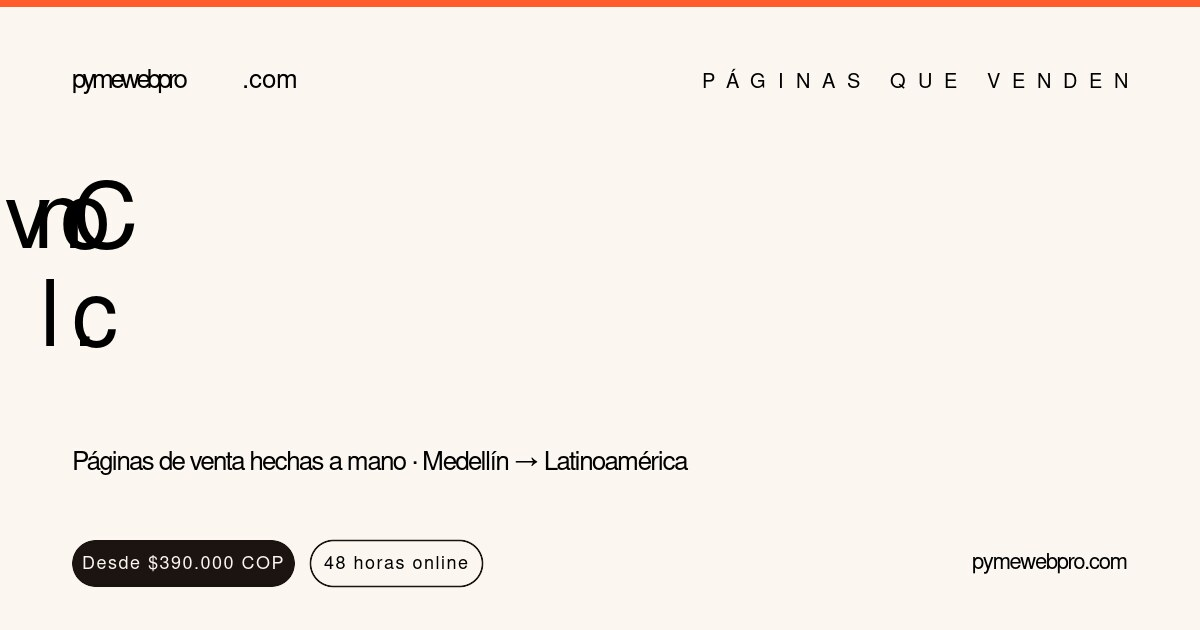
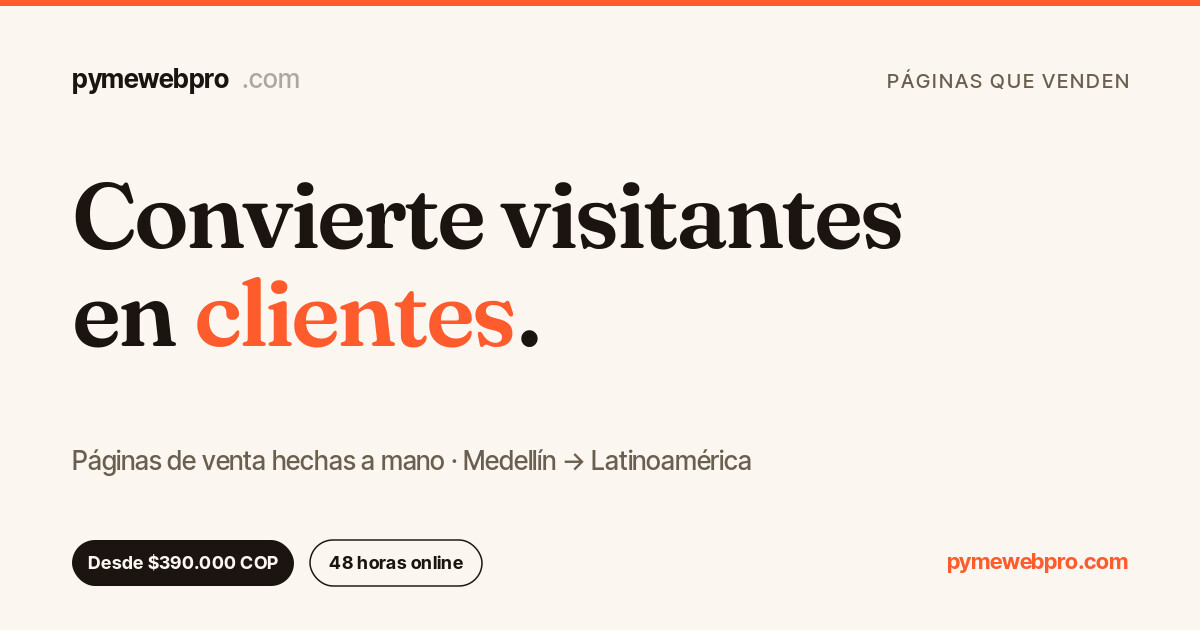
Fix garbled OG social-share image (re-render with Fraunces/Inter Tight fonts)

diff --git a/CLAUDE.md b/CLAUDE.md
@@ -377,6 +377,8 @@ When in doubt, look at how Daga, BWI, or Espacio Dental handle the equivalent mo
 
 ## Recent changes
 
+- **2026-05-21 (later x1)** · **Fixed the broken social-share (OG) image for pymewebpro.com.** The shared image `screenshots/og-pymewebpro.jpg` was garbled (the big headline had collapsed into overlapping glyphs and the wordmark spacing was broken) because it had been re-rasterized without the Fraunces / Inter Tight web fonts. Re-rendered from the existing source `screenshots/og-pymewebpro.svg` (design unchanged: "Convierte visitantes en clientes.", 1200x630, cream/ink/orange): downloaded the exact Fraunces 500/600 + Inter Tight 500/600/700 TTFs from Google Fonts and installed them locally, stripped the unreachable `@import` line, rendered with cairosvg → PNG, flattened to JPG (quality 90, ~77KB) with ImageMagick. The `og:image` / `twitter:image` meta in `index.html` already point here, so no markup change. **Deploy:** `git add -A && git commit && git push` (Pages auto-deploys). **After deploy:** re-scrape the URL in Facebook Sharing Debugger + LinkedIn Post Inspector to bust their cached OG image.
+- **2026-05-21** · **Added Facebook domain-verification meta tag to pymewebpro.com.** For Meta Business domain verification: `<meta name="facebook-domain-verification" content="m8somhyzg26z2fspg042uhsiwnax51" />` inserted in `index.html` `<head>` after `color-scheme`. Root only (`en/index.html` untouched · Meta verifies the domain root). No CSP impact (meta tags aren't script/style). **Deploy:** `git add -A && git commit && git push`, then click Verify in Meta Business → Domains.
 - **2026-05-20 (later x19)** · **Checkout was DOWN · restored portal.pymewebpro.com (public host) + fixed post-pay redirect.** Mike's /start "Continuar al pago" did nothing / "Error de red". Root cause (pre-existing since 2026-05-13): `portal.pymewebpro.com` was retired from `portal/wrangler.toml` routes, but the public checkout still depends on it · `/start` POSTs to `https://portal.pymewebpro.com/api/leads` and redirects to `/c/:id` there (and `mockups.js` APP_URL fallbacks). With no route, the fetch failed. **Fix:** (1) re-added `{ pattern = "portal.pymewebpro.com", zone_name="pymewebpro.com", custom_domain = true }` to `wrangler.toml` routes (admin stays gated at colguides; the worker's own login still protects admin on this host). (2) `handleCreateCheckout` redirect-url now uses the request origin (the public checkout host) instead of `env.APP_URL` (the Access-gated colguides mount), so the post-payment return page is reachable. `node --check` passes. **DEPLOY:** `cd ~/code/pymewebpro/portal && wrangler deploy` (wrangler auto-creates the portal.pymewebpro.com custom domain + DNS; if it complains about an existing `portal` DNS record, delete that record in the CF dashboard and redeploy). Then test /start end-to-end. **Note:** admin is reachable again at portal.pymewebpro.com (behind the worker login, as pre-2026-05-13).
 - **2026-05-20 (later x18)** · **MONEY-CRITICAL · checkout now charges 30% of the CONFIGURED total (calculator → /start → Wompi all reconcile).** Mike: "if someone picks a million in add-ons they should be charged a million" (30% start / 70% launch, full total via Wompi). **Discovery:** `portal/src/index.js` `computeQuote` was charging the FULL base plan price ($390.000) at `/c/:lead` checkout, ignoring both the 30% deposit AND the add-ons. **Fix (portal):** `computeQuote` now reads the configured total from `lead.metadata.extra.total_cop` (persisted by `captureLead`), sets `projectTotal` = that (fallback base+hosting), and charges a **30% deposit** (`total_cents = round(projectTotal*0.30)*100`); exposes `project_total_cop`/`deposit_cop`/`balance_cop`. `confirmationHtml` now shows Total del proyecto / Saldo al lanzar (70%) / Depósito hoy (30%). **Fix (front-end):** calculator (index + en) and `/start` deposit reverted from the fixed $117k to `round(total*0.30)`; labels back to "30%/70%". Verified: $770k config → deposit $231.000 at all three layers; $1M → $300.000. `node --check` on portal passes; check:standards 0 fails. **DEPLOY (two separate):** site `git push` (Pages); **portal `cd ~/code/pymewebpro/portal && wrangler deploy`**. **⚠ Mike MUST test a real Wompi transaction** before relying on it (sandbox can't test live payments). **Note:** base page now charges $117k (30%) at /start, not $390k full (this is what the site always promised). The 70% balance is still collected at launch (existing flow). Valentina's own deposit flow (`pymewebpro-agent/src/payments.js`) still charges base-page 30% only and doesn't see calculator add-ons (separate surface; flag if you want it wired too).
 - **2026-05-20 (later x17)** · **Calculator ↔ /start now connected; removed extra-page add-on (ES+EN).** Mike: the calculator and `/start/?plan=esencial` were disconnected (selections lost). The section-5 builder's "Empezar/Get started" button (`#bs-start`) now builds its href dynamically in `calc()`: `/start/?plan=esencial&total=<n>&monthly=<n>&items=<encoded list of selected add-ons>`. `start/index.html` reads those params: shows the configured total as the price, "Depósito hoy ($117.000) reserva tu cupo · Saldo al lanzar $<total−117000> · incluye: <items>", and rides `total_cop`/`items`/`monthly_cop` along in the lead `extra` + message so the rep sees exactly what to build/invoice. Deposit stays $117.000 (the Wompi charge via portal key `esencial`), which now equals "Depósito hoy" — all three numbers reconcile end-to-end (verified: CRM+chatbot → total 770k, dep 117k, balance 653k). Also removed the "Página adicional (máx. 3)" qty add-on from the builder per Mike (hosting-by-month stepper still works via the generic `.addon-qty` handler). CSP refreshed (68/17), all inline scripts (index, en, start) parse, check:standards 0 fails. **Deploy:** `git add -A && git commit && git push`. **Still open:** Section 6 form→pay rebuild; EN FAQ parity; heading order; brand-orange contrast decision; `REPLACE_` placeholders.
